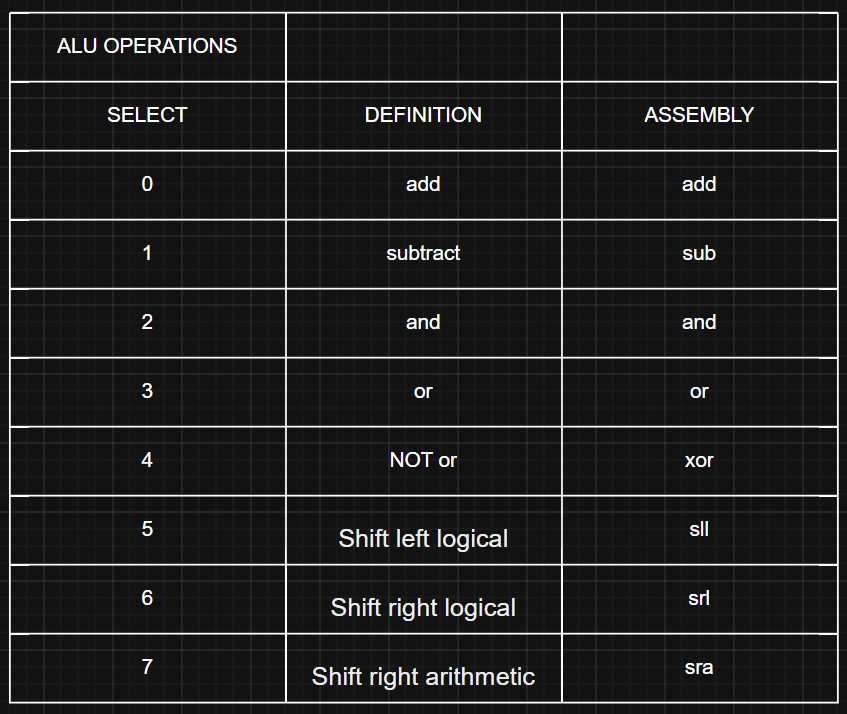
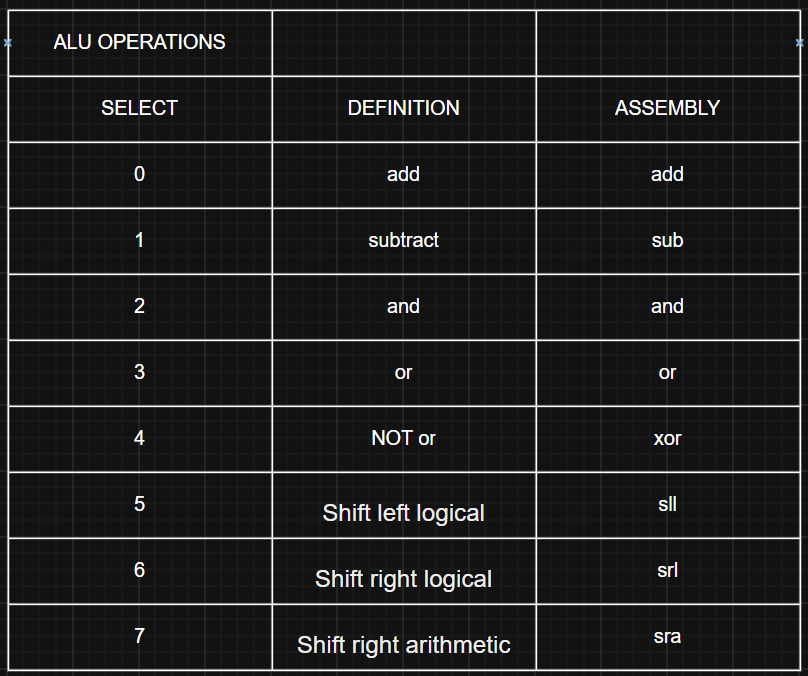
Added ISA and ALU operations

diff --git a/README.md b/README.md
@@ -1,10 +1,24 @@
 # RISC-V 32-bit Single Cycle Processor
 
-This project implements a 32-bit single-cycle processor in SystemVerilog. The CPU executes one instruction per clock cycle and supports arithmetic, logical, memory access, and branch operations. 
+This project implements a 32-bit single-cycle processor in SystemVerilog with Vivado based on reduced RV32I instruction subset. The CPU executes one instruction per clock cycle and supports arithmetic, logical, memory access, and branch operations. The goal of this implementation is to demonstrate a working CPU microarchitecture and validate core ISA behavior through simulation-based verification.
 
-#FIX-ME add isa subset
+## ISA
 
-This is a walkthrough of the CPU starting with the full architecture then breaking it down by each component
+### Arithmetic/Logic
+
+add, sub, and,
+
+or, xor, sll,
+
+srl, sra
+
+### Memory
+
+lw, sw
+
+### Control
+
+beq, jal
 
 ## Program Counter (PC)
 
@@ -88,44 +102,7 @@ Picks which operation is performed on a & b based on the alu_select signal
 
 ### ALU OPERATIONS
 
-
-
-
-
-
-Select
-Definition
-Assembly
-0
-Add
-add
-1
-Subtract
-sub
-2
-AND
-and
-3
-OR
-or
-4
-XOR
-xor
-5
-Shift logical left
-sll
-6
-Shift logical right
-slr
-7
-Shift arithmetic right
-sar
-8
-Set if less than signed
-slt
-9
-Set if less than unsigned
-sltu
+![ALU Operations Table](images/ALU_Operations.png)
 
 
 Input